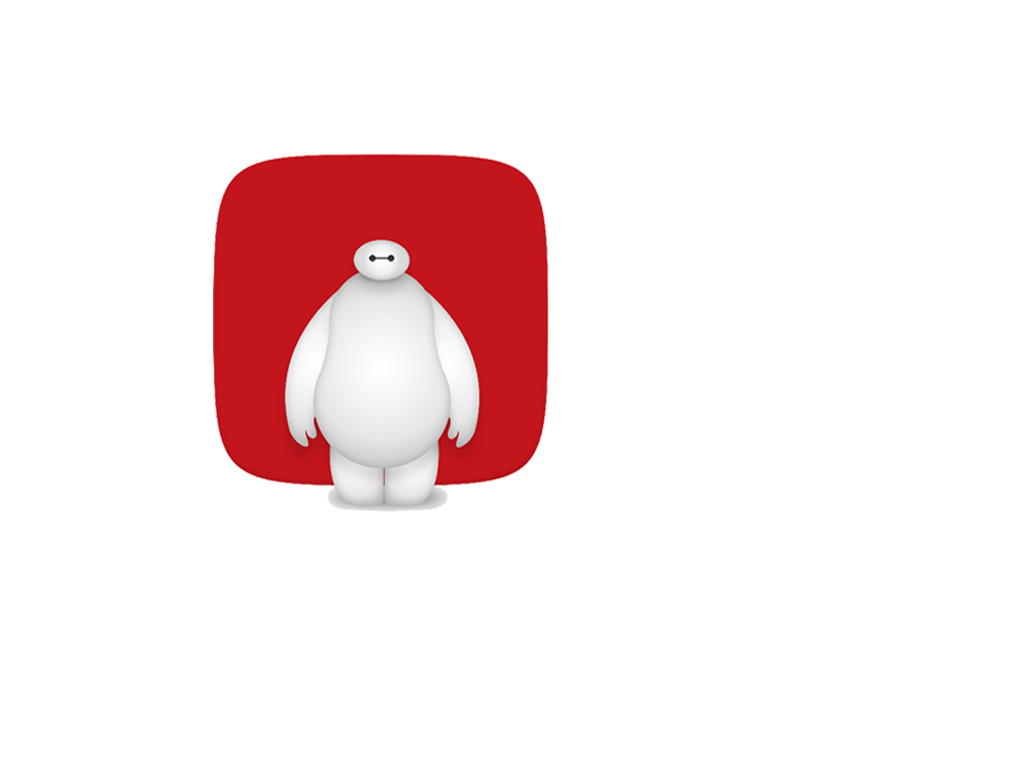
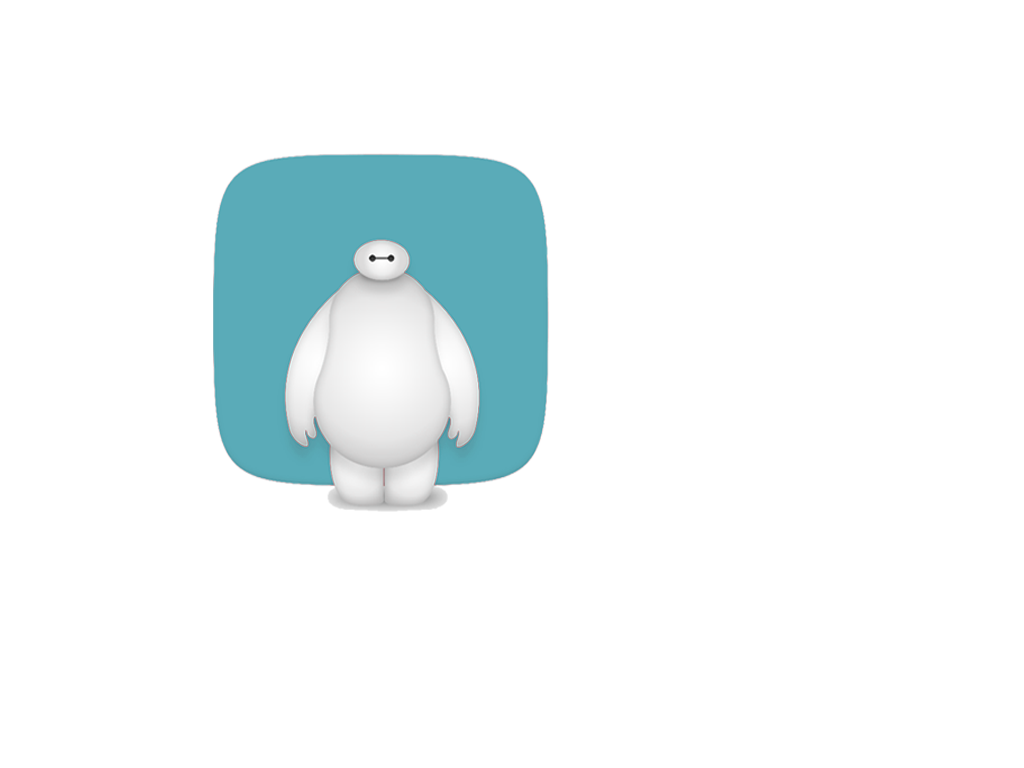
修改背景颜色及导航

Changed region(s): [[0.1875, 0.1875, 0.5625, 0.6562]]

diff --git a/views/header.html b/views/header.html
@@ -5,7 +5,7 @@
             <li><a href="/" class="nav-item">首页</a></li>
             <li><a href="#tab" class="nav-item">商品分类</a></li>
             <li><a href="/shopping-cart" class="nav-item">我的购物车</a></li>
-            <li><a href="/promotion" class="nav-item">促销商品</a></li>
+            <li><a href="#fourImg" class="nav-item">人气推荐</a></li>
             <li><a href="/order" class="nav-item">我的订单</a></li>
         </ul>
         <ul class="nav-user">
